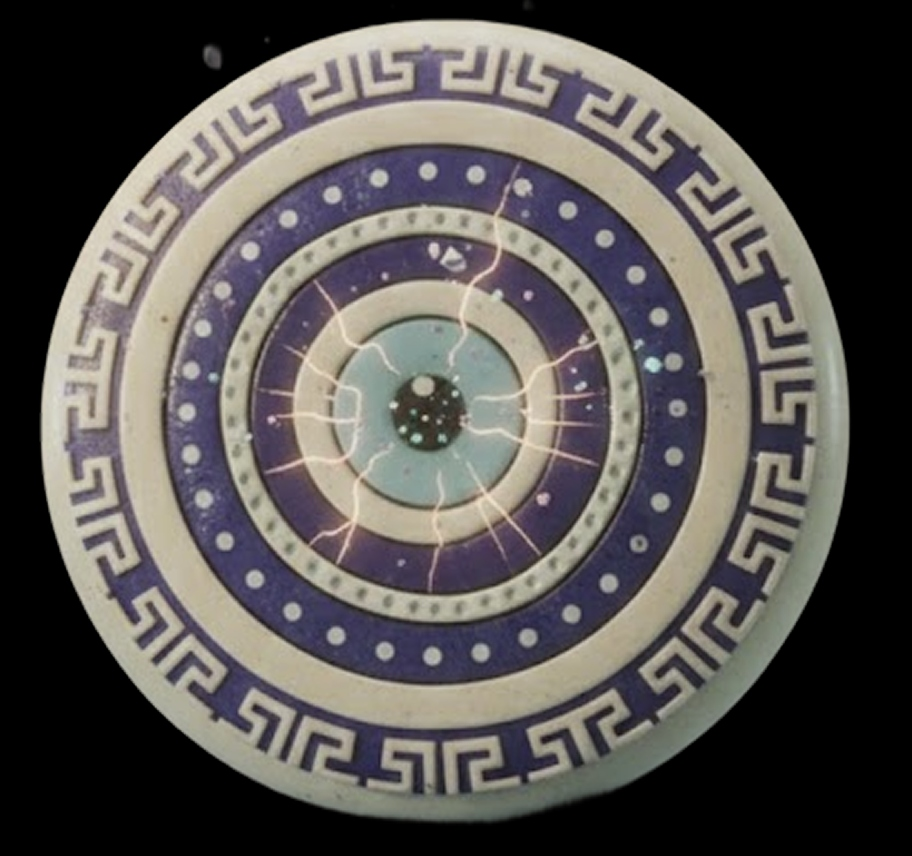
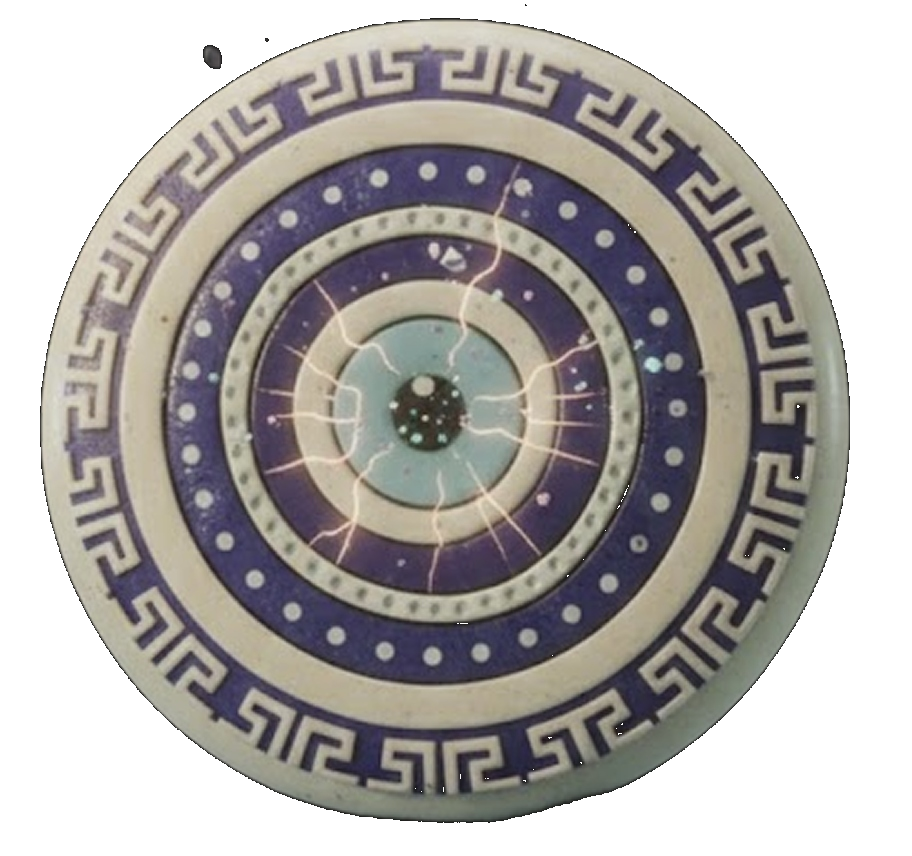
Remove black background from specific assets and adjust coverflow scaling/gaps

diff --git a/styles/ai-assets.css b/styles/ai-assets.css
@@ -214,20 +214,20 @@ body.assets-body {
 }
 
 #gallery-prev2 {
-  transform: translateX(-150%) scale(0.4) rotateY(30deg);
+  transform: translateX(-180%) scale(0.65) rotateY(15deg);
   opacity: 0;
   z-index: 1;
   pointer-events: none;
 }
 
 #gallery-prev {
-  transform: translateX(-80%) scale(0.65) rotateY(15deg);
+  transform: translateX(-100%) scale(0.65) rotateY(15deg);
   opacity: 0.5;
   z-index: 2;
 }
 
 #gallery-main {
-  transform: translateX(0) scale(1.3) translateY(-10px);
+  transform: translateX(0) scale(1.4) translateY(-10px);
   opacity: 1;
   z-index: 5;
   filter: drop-shadow(0 30px 50px rgba(0, 0, 0, 0.5));
@@ -237,13 +237,13 @@ body.assets-body {
 }
 
 #gallery-next {
-  transform: translateX(80%) scale(0.65) rotateY(-15deg);
+  transform: translateX(100%) scale(0.65) rotateY(-15deg);
   opacity: 0.5;
   z-index: 2;
 }
 
 #gallery-next2 {
-  transform: translateX(150%) scale(0.4) rotateY(-30deg);
+  transform: translateX(180%) scale(0.65) rotateY(-15deg);
   opacity: 0;
   z-index: 1;
   pointer-events: none;
@@ -257,15 +257,15 @@ body.assets-body {
 
 @keyframes float {
   0% {
-    transform: translateX(0) scale(1.3) translateY(-10px);
+    transform: translateX(0) scale(1.4) translateY(-10px);
   }
 
   50% {
-    transform: translateX(0) scale(1.3) translateY(-25px);
+    transform: translateX(0) scale(1.4) translateY(-25px);
   }
 
   100% {
-    transform: translateX(0) scale(1.3) translateY(-10px);
+    transform: translateX(0) scale(1.4) translateY(-10px);
   }
 }
 
